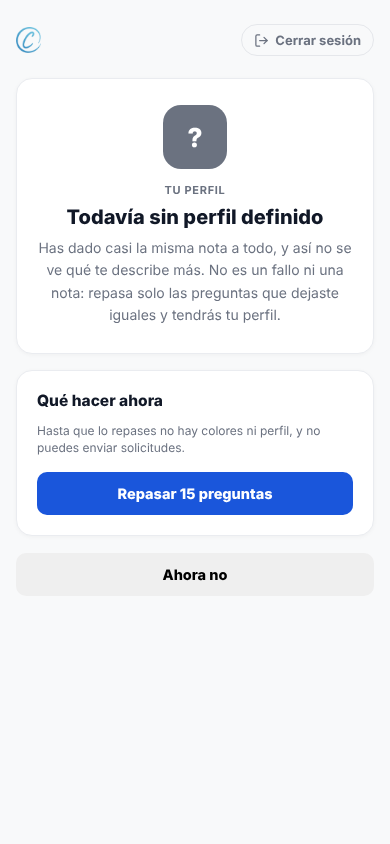
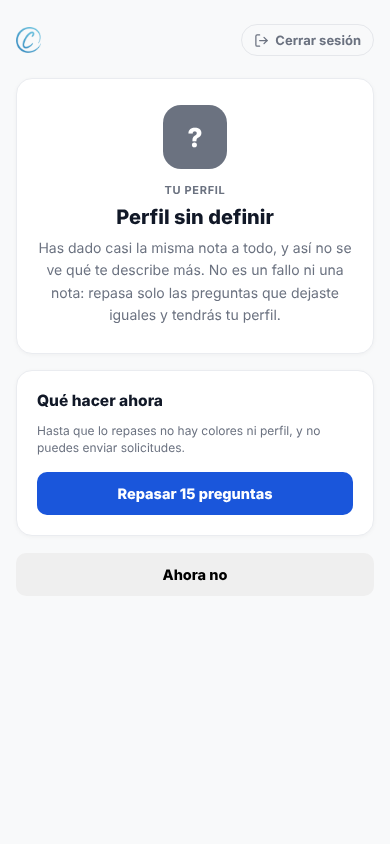
Arreglo: el resultado plano del test dice exactamente «Perfil sin definir»
En los dos lados (clínica y profesional). En la clínica, el distintivo gris
pasa a ser un «?», igual que en el lado del profesional. Nueva prueba del
caso plano en el lado clínica.

Claude-Session: https://claude.ai/code/session_01L5qSpH5ECCjMh1xfSpjWDJ

Changed region(s): [[0.1846, 0.2464, 0.8308, 0.2773]]

diff --git a/index.html b/index.html
@@ -4514,8 +4514,8 @@ function CERCO_discSinPerfil(ctx, r){
   if(t) t.style.display = 'none'; if(res) res.style.display = 'block';
   if(ctx === 'onboarding'){ try{ setStepper_onboarding(3); }catch(x){} }
   var g = function(id){ return document.getElementById(id+'-'+ctx); };
-  var badge = g('badge'); if(badge){ badge.style.background = '#6B7280'; badge.textContent = 'Sin perfil definido'; }
-  if(g('result-name')) g('result-name').textContent = 'Todavía sin perfil definido';
+  var badge = g('badge'); if(badge){ badge.style.background = '#6B7280'; badge.textContent = '?'; }
+  if(g('result-name')) g('result-name').textContent = 'Perfil sin definir';
   if(g('result-desc')) g('result-desc').textContent = 'Has dado casi la misma nota a todo, y así no se ve qué te describe más. No es un fallo ni una nota: repasa solo las preguntas que dejaste iguales y tendrás tu perfil.';
   var bars = g('bars-container'); if(bars){ bars.innerHTML = ''; bars.style.display = 'none'; }
   var n = _discPlanas(ctx).length, inv = false; try{ inv = !!(window.esModoInvitado && esModoInvitado()); }catch(x){}
@@ -13338,7 +13338,7 @@ window.CGeo = (function(){
       + (min < 15 ? 'La forma de trabajar con menos presencia es ' + CDB.NOMBRE[fl] + ' (' + fl + ').' : 'Está bastante repartido, sin huecos claros.')
       + '<br><span style="color:#6B7280;font-size:12.5px;">Úsalo para preparar la conversación con un candidato, no para descartar a nadie: el test describe un estilo, no predice quién trabajará mejor.</span>';
   }
-  function rTest(){ return 'El test tiene 15 preguntas con 4 frases cada una; cada frase se puntúa del 1 al 4 y se puede repetir nota. Lo que cuenta es la diferencia entre frases, así que poner un 4 a todo no sube nada. Las frases salen en un orden distinto para cada persona. Si alguien deja casi todo igual, sale «Sin perfil definido» y no cuenta en el equipo hasta que lo repase.'; }
+  function rTest(){ return 'El test tiene 15 preguntas con 4 frases cada una; cada frase se puntúa del 1 al 4 y se puede repetir nota. Lo que cuenta es la diferencia entre frases, así que poner un 4 a todo no sube nada. Las frases salen en un orden distinto para cada persona. Si alguien deja casi todo igual, sale «Perfil sin definir» y no cuenta en el equipo hasta que lo repase.'; }
   function rGuardados(){ var n = 0; try{ n = (leer('cerco_cand_guardados', []) || []).length; }catch(x){} return (n ? 'Tienes ' + n + ' candidato' + (n === 1 ? '' : 's') + ' guardado' + (n === 1 ? '' : 's') + '.' : 'Aún no has guardado a nadie. En cada tarjeta y en la ficha tienes el marcador para guardar.') + '<br>' + btn('Ver guardados', cerrar() + "showScreen('portal');setTimeout(function(){try{verGuardados()}catch(x){}},350)"); }
 
   var _viejo = window.respuestaSeimian;

diff --git a/pruebas/e2e/20-test-plano-clinica.spec.js b/pruebas/e2e/20-test-plano-clinica.spec.js
@@ -1,0 +1,25 @@
+// Test DISC del lado clínica con todas las notas iguales:
+// tiene que decir exactamente «Perfil sin definir», sin colores ni
+// porcentajes, y solo dejar repasar (no se puede dar por terminado).
+const { test, expect, nuevaVentana, capturar } = require('../apoyo/entorno');
+const A = require('../apoyo/acciones');
+
+test('Clínica: resultado plano → «Perfil sin definir»', async ({ browser }, testInfo) => {
+  const { context, page } = await nuevaVentana(browser, testInfo);
+  await A.registrarClinica(page, `plana-${testInfo.project.name}@prueba.es`);
+  await page.getByText('Saltar y configurar mi clínica').click();
+  await page.fill('#f-nom-onboarding', 'Clínica Plana');
+  await page.locator('#screen-1-onboarding').getByRole('button', { name: 'Continuar' }).click();
+  await page.getByText('Entendido — empezar el test').click();
+  await A.contestarTestClinica(page, 'onboarding', { plano: true });
+
+  const res = page.locator('#screen-results-onboarding');
+  await expect(res).toBeVisible();
+  await expect(page.locator('#result-name-onboarding')).toHaveText('Perfil sin definir');
+  await expect(page.locator('#bars-container-onboarding')).toBeHidden();      // sin barras
+  await expect(res).not.toContainText('%');                                    // sin porcentajes
+  await expect(res.getByRole('button', { name: 'Finalizar' })).toBeHidden();   // no se puede terminar
+  await expect(res.getByRole('button', { name: /Repasar/ })).toBeVisible();    // solo repasar
+  await capturar(page, 'clinica-21-test-perfil-sin-definir');
+  await context.close();
+});

diff --git a/candidato.html b/candidato.html
@@ -2622,7 +2622,7 @@ function testRepasar(){
 function testSinPerfil(){
   var n = testPlanas().length;
   $('tr-big').style.background = '#6B7280'; $('tr-big').textContent = '?';
-  $('tr-nom').textContent = 'Todavía sin perfil definido';
+  $('tr-nom').textContent = 'Perfil sin definir';
   $('tr-desc').textContent = 'Has dado casi la misma nota a todo, y así no se ve qué te describe más. No es un fallo ni una nota: repasa solo las preguntas que dejaste iguales y tendrás tu perfil.';
   $('tr-h').textContent = 'Qué hacer ahora';
   $('tr-bars').innerHTML = '<div class="hint" style="margin:0 0 4px;">Hasta que lo repases no hay colores ni perfil, y no puedes enviar solicitudes.</div>'

diff --git a/pruebas/e2e/10-recorrido.spec.js b/pruebas/e2e/10-recorrido.spec.js
@@ -154,7 +154,7 @@ test('4. La profesional se registra y hace el test («sin perfil» y después su
 
   // Primero lo contesta todo con la misma nota → no hay perfil
   await A.contestarTestProfesional(page, { plano: true });
-  await seVe(page, 'Todavía sin perfil definido');
+  await seVe(page, 'Perfil sin definir', { exact: true });
   await seVe(page, 'Hasta que lo repases no hay colores ni perfil, y no puedes enviar solicitudes.');
   await expect(page.getByText('Concienzudo (C)')).toHaveCount(0); // sin barras ni porcentajes
   await capturar(page, 'pro-07-test-sin-perfil');
